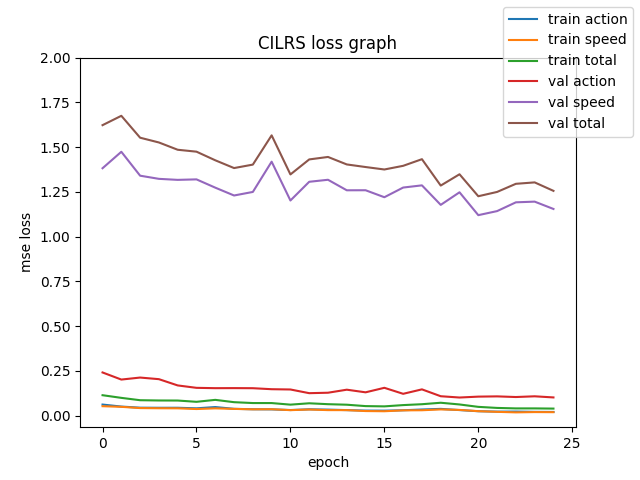
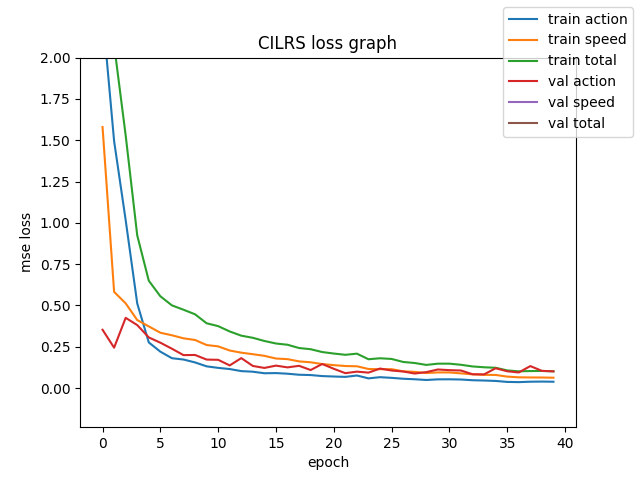
quick fix

diff --git a/cvad_hw1/models/cilrs.py b/cvad_hw1/models/cilrs.py
@@ -22,15 +22,16 @@ class CILRS(nn.Module):
         
 
         # speed
-        self.speed_head = nn.Sequential(nn.Linear(512, 256), nn.ReLU(), nn.Linear(256, 1))
+        self.speed_head = nn.Sequential(nn.Linear(512, 256), nn.ReLU(), nn.Dropout(0.3), nn.Linear(256, 128),
+                                         nn.ReLU(), nn.Linear(128, 1))
         
         # measurement fc (speed -> 512)
-        self.measure_fc = nn.Sequential(nn.Linear(1, 64), nn.ReLU(), nn.Linear(64, 128))
+        self.measure_fc = nn.Sequential(nn.Linear(1, 64), nn.ReLU(), nn.Linear(64, 128), nn.ReLU(), nn.Linear(128, 256))
         
         # measurement fc (speed -> 512)
-        self.post_fc = nn.Sequential(nn.Linear(512+128, 512), nn.ReLU(), nn.Linear(512, 512))
+        self.post_fc = nn.Sequential(nn.Linear(512+256, 512), nn.ReLU(), nn.Linear(512, 512))
         
-        self.command_fc = nn.ModuleList([ nn.Sequential(nn.Linear(512, 256), nn.ReLU(), nn.Linear(256, 3), nn.Tanh()) 
+        self.command_fc = nn.ModuleList([nn.Sequential(nn.Linear(512, 256), nn.ReLU(), nn.Linear(256, 128), nn.ReLU(), nn.Linear(128, 3)) 
                                 for i in range(n_commands)])
 
     def forward(self, imgs, measures, commands):
@@ -50,6 +51,13 @@ class CILRS(nn.Module):
             if len(idxs) > 0:
                 ret[idxs, 1:] = self.command_fc[c](out[idxs])
         
+        # throttle
+        ret[:, 1:2] = nn.Sigmoid()(ret[:, 1:2])
+        #brake
+        ret[:, 2:3] = nn.Sigmoid()(ret[:, 2:3])
+        # steer
+        ret[:, 3:4] = nn.Tanh()(ret[:, 3:4])
+
         return ret
             
 

diff --git a/cvad_hw1/cilrs_train.py b/cvad_hw1/cilrs_train.py
@@ -8,9 +8,10 @@ import matplotlib.pyplot as plt
 from tqdm import tqdm 
 import numpy as np
 import argparse
+import os
 
 
-def validate(model, dataloader, lmbd=0.05, device='cpu'):
+def validate(model, dataloader, lmbd=0.2, device='cpu'):
     """Validate model performance on the validation dataset"""
     # Your code here
     model.eval()
@@ -76,16 +77,16 @@ def main():
         model = CILRS()
     else:
         print("Loading model from cilrs_model.ckpt")
-        model = torch.load('cilrs_model.ckpt')
+        model = torch.load(args.resume)
     train_dataset = ExpertDataset(train_root)
     val_dataset = ExpertDataset(val_root)
 
     # You can change these hyper parameters freely, and you can add more
-    num_epochs = 25
+    num_epochs = 40
     batch_size = 256
     lr = 0.0002
     device = 'cuda' if torch.cuda.is_available() else 'cpu'
-    save_path = "cilrs_model.ckpt"
+    save_dir = "checkpoints/cilrs/"
 
     train_loader = DataLoader(train_dataset, batch_size=batch_size, num_workers=10, shuffle=True,
                             drop_last=True)
@@ -109,7 +110,8 @@ def main():
         
         print("Val loss:", s_loss, ac_loss)
 
-    torch.save(model, save_path)
+
+    torch.save(model, os.path.join(save_dir, f'cilrs_{i}.ckpt'))
     plot_losses(ac_train_losses, s_train_losses, ac_val_losses, s_val_losses)
 
 

diff --git a/cvad_hw1/cilrs_eval.py b/cvad_hw1/cilrs_eval.py
@@ -27,7 +27,7 @@ class Evaluator():
         
 
     def load_agent(self,):
-        model = torch.load('cilrs_model.ckpt')
+        model = torch.load('checkpoints/cilrs/cilrs_39.ckpt')
         return model.to(self.device).eval()
         
     def generate_action(self, rgb, command, speed):
@@ -43,6 +43,11 @@ class Evaluator():
         command = state["command"]
         speed = state["speed"]
         throttle, steer, brake = self.generate_action(rgb, speed, command)
+
+        if brake < 0.05:
+            brake = 0.
+        
+        print(throttle, steer, brake)
         action = {
             "throttle": float(throttle),
             "brake": float(brake),

diff --git a/cvad_hw1/carla_env/managers/reward_manager.py b/cvad_hw1/carla_env/managers/reward_manager.py
@@ -32,10 +32,10 @@ class RewardManager():
             reward_dict['speeding'] = 1 - np.abs(action['throttle'] - diff/100) 
 
         # stear (angle should be aligned with waypoint)
-        reward['way_steer'] = -np.abs(state['waypoint_angle'] - action['steer'])
+        reward_dict['way_steer'] = -np.abs(state['waypoint_angle'] - action['steer'])
 
         # add reward for suriving one more step
-        reward['step'] = 0.5
+        # reward_dict['step'] = 0.5
 
         # Your code here
         reward = 0.0
